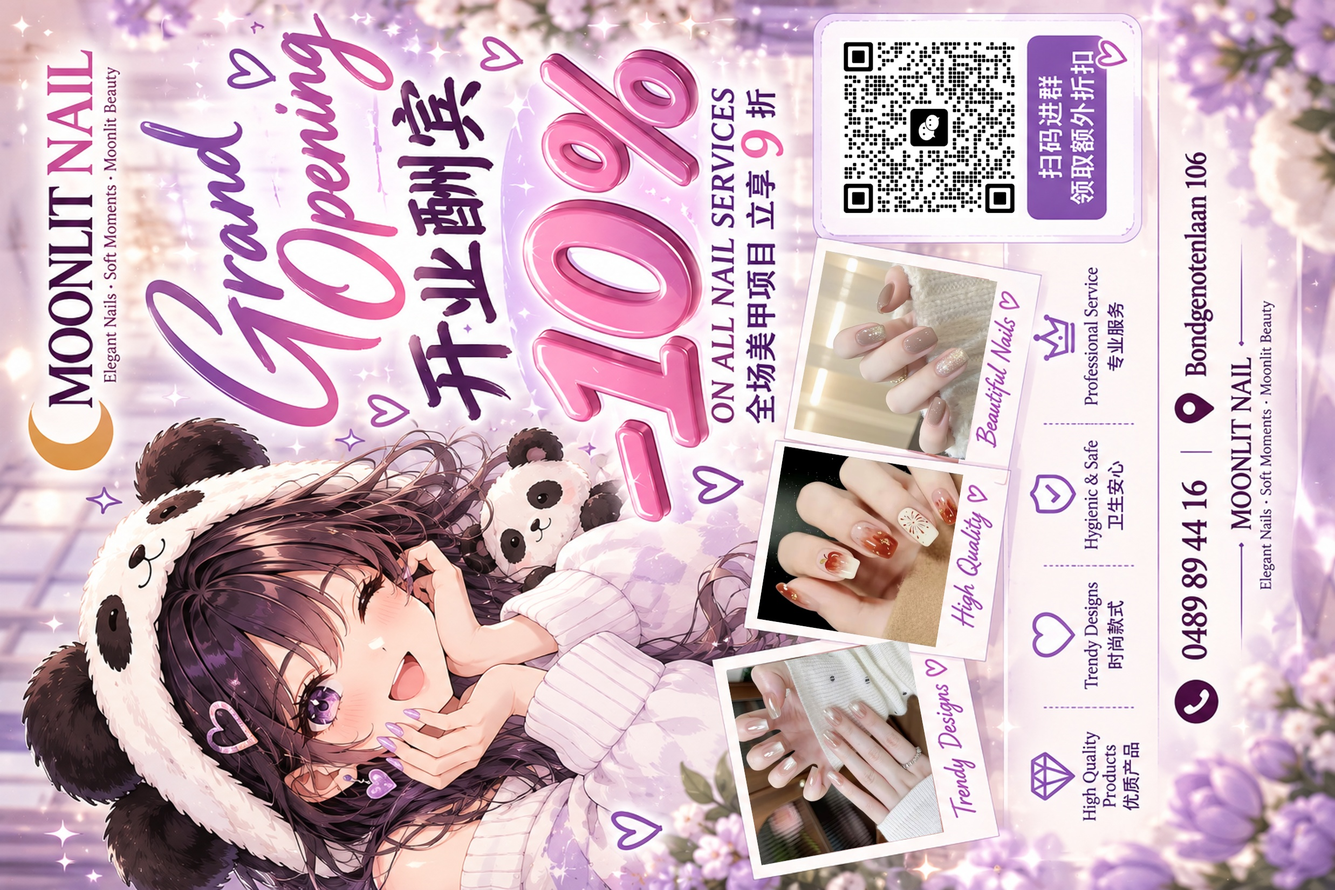
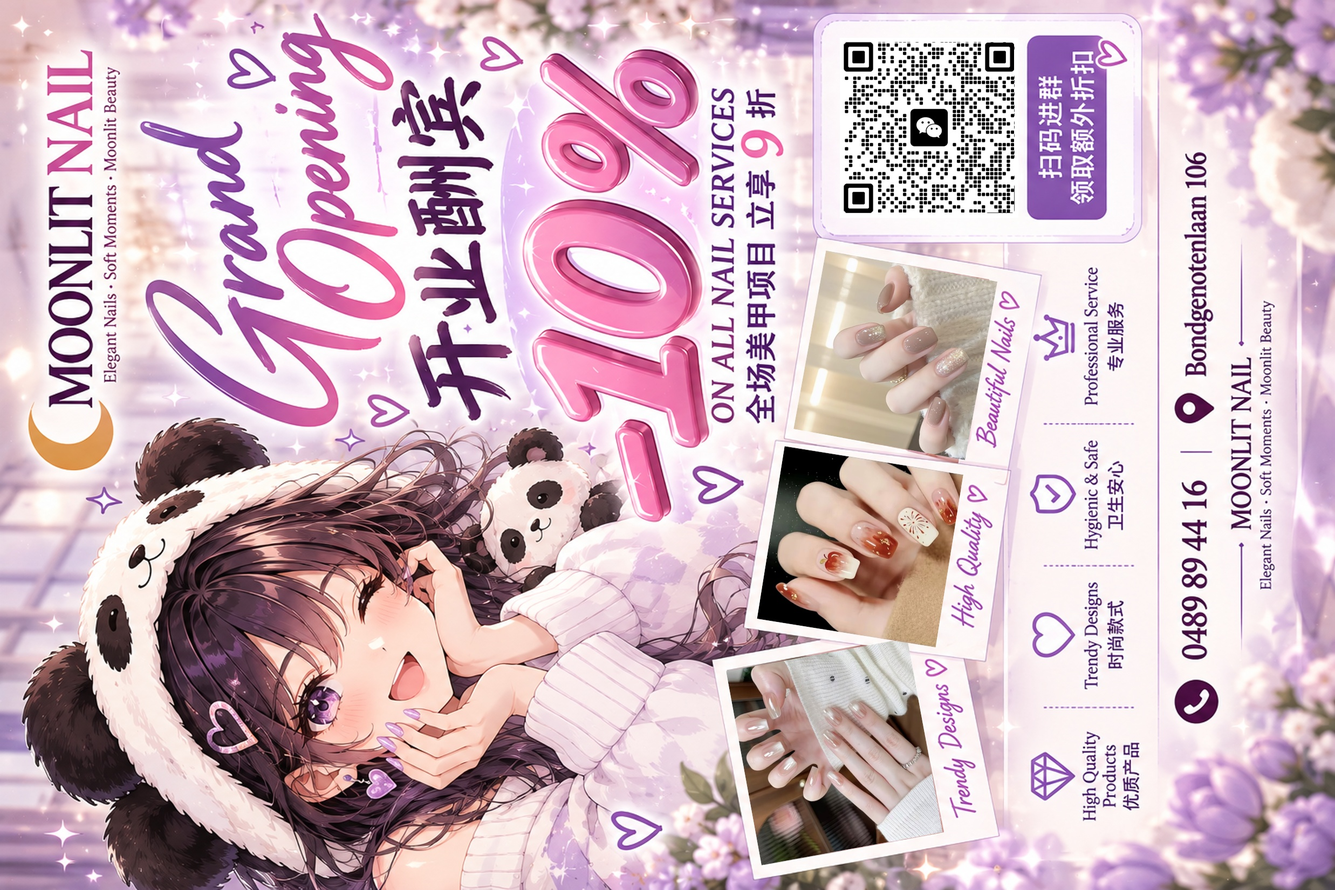
feat: 更新开业酬宾2二维码，升级缓存版本至v6

Changed region(s): [[0.6222, 0.0309, 0.7778, 0.2473]]

diff --git a/sw.js b/sw.js
@@ -12,7 +12,7 @@
 //
 // ⚠ 改了同名图片（比如覆盖 2.jpg）后如果没生效，把下面的 CACHE_VERSION 改个数字再部署。
 
-const CACHE_VERSION = 'v5';
+const CACHE_VERSION = 'v6';
 const CACHE_NAME = 'milk-tea-poster-' + CACHE_VERSION;
 
 // 首次安装时必须拿到的核心文件；任何一个失败就整体重试

diff --git a/README.md b/README.md
@@ -44,7 +44,7 @@ milk-tea-poster/
 | --- | --- |
 | 滚动速度 | **54 px/s**（原 36 的 1.5 倍） |
 | 当前海报数量 | **5 张**（1.jpg~5.jpg 全部横向统一步调） |
-| 缓存版本 | **v5** |
+| 缓存版本 | **v6** |
 
 
 改速度：打开 `index.html`，改最上面 `CONFIG.speedPxPerSec`（现在是 54，越小越慢）。
